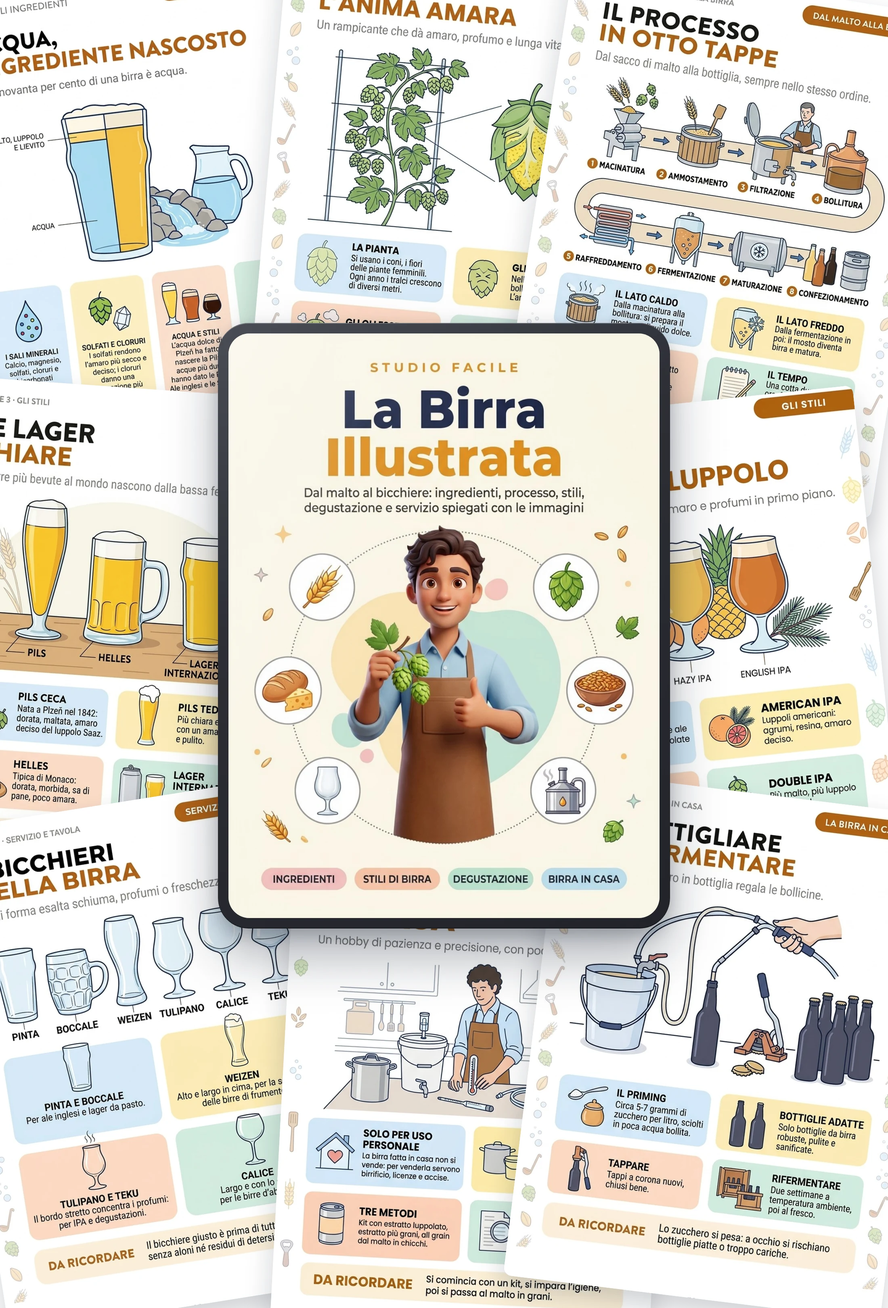
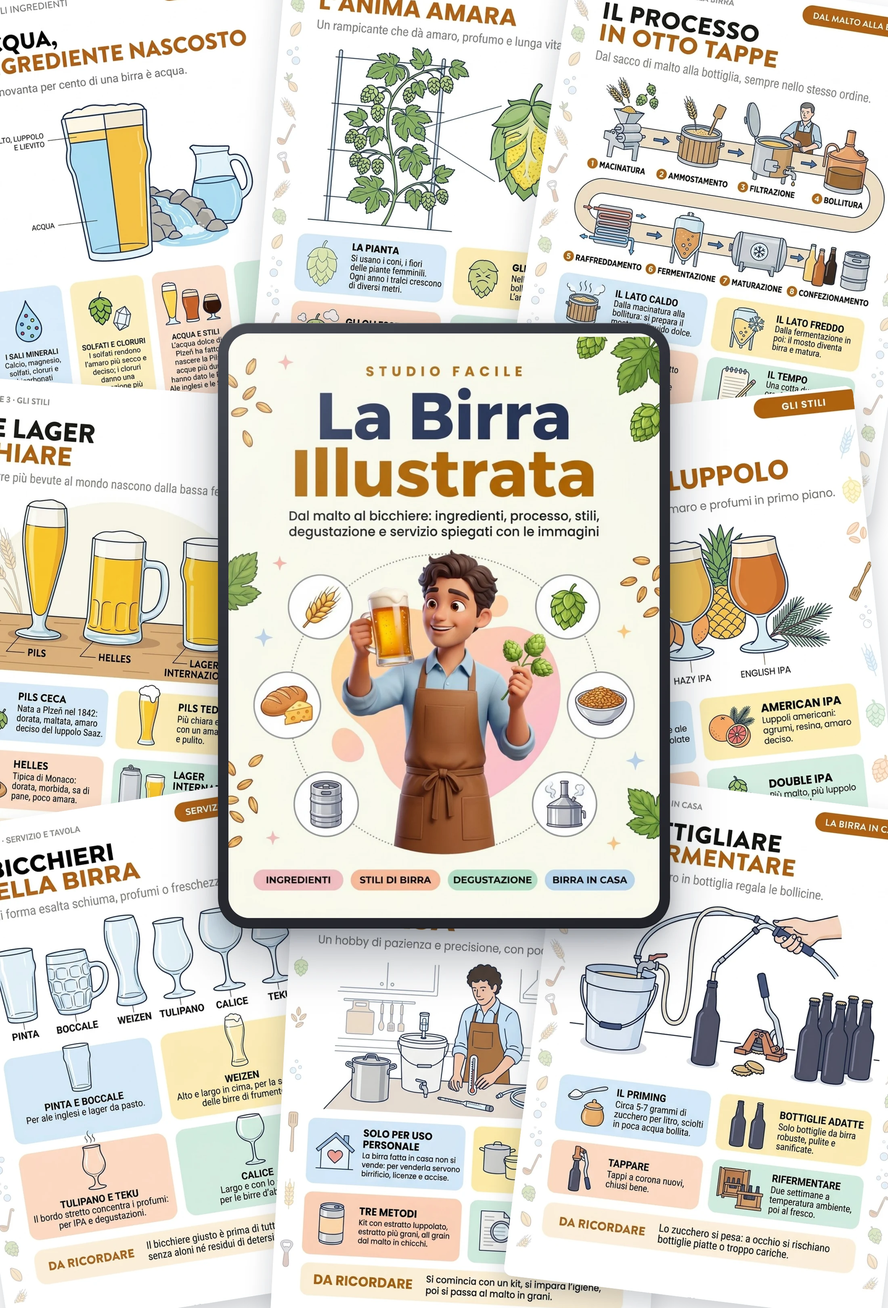
Landing birra IT: portada nueva (birra protagonista)

Changed region(s): [[0.2473, 0.2806, 0.7418, 0.6858], [0.6491, 0.2494, 0.7418, 0.3429], [0.2473, 0.2806, 0.3091, 0.3429]]

diff --git a/it/birra.html b/it/birra.html
@@ -2153,7 +2153,7 @@
   <section class="hero">
     <div class="hero-content">
       <div class="hero-mockup">
-        <img src="https://czocbnyoenjbpxmcqobn.supabase.co/storage/v1/object/public/algoritmia-img/studiofacile/mockups/birra-it/hero.webp?v=ef470cf0" alt="La Birra Illustrata, con Il Quaderno della Birra e Il Lessico della Birra in regalo"
+        <img src="https://czocbnyoenjbpxmcqobn.supabase.co/storage/v1/object/public/algoritmia-img/studiofacile/mockups/birra-it/hero.webp?v=7436ba78" alt="La Birra Illustrata, con Il Quaderno della Birra e Il Lessico della Birra in regalo"
              width="1200" height="886" loading="eager" fetchpriority="high" decoding="async">
       </div>
       <h1>Il Modo Più Facile per Capire la Birra <mark>Con Ogni Argomento Spiegato da un Disegno!</mark></h1>
@@ -2411,7 +2411,7 @@
     <div class="container">
       <h2 class="text-center">Ecco Cosa Riceverai Acquistando La Birra Illustrata:</h2>
       <div style="margin: 20px auto 28px;">
-        <img src="https://czocbnyoenjbpxmcqobn.supabase.co/storage/v1/object/public/algoritmia-img/studiofacile/mockups/birra-it/combo.webp?v=82d9414b" alt="La Birra Illustrata: mockup con pagine di esempio" width="1100" height="1620" loading="lazy" decoding="async" style="max-width: 480px; width: 100%; display: block; margin: 0 auto;">
+        <img src="https://czocbnyoenjbpxmcqobn.supabase.co/storage/v1/object/public/algoritmia-img/studiofacile/mockups/birra-it/combo.webp?v=7604ab06" alt="La Birra Illustrata: mockup con pagine di esempio" width="1100" height="1620" loading="lazy" decoding="async" style="max-width: 480px; width: 100%; display: block; margin: 0 auto;">
       </div>
       <div class="topics-grid">
         <div class="topic-item">
@@ -2513,7 +2513,7 @@
 
       <!-- DECISION BOX -->
       <div class="decision-box" id="offerta">
-        <img src="https://czocbnyoenjbpxmcqobn.supabase.co/storage/v1/object/public/algoritmia-img/studiofacile/mockups/birra-it/hero.webp?v=ef470cf0" alt="La Birra Illustrata con i due volumi in regalo" class="db-mockup" width="1200" height="886" loading="lazy" decoding="async">
+        <img src="https://czocbnyoenjbpxmcqobn.supabase.co/storage/v1/object/public/algoritmia-img/studiofacile/mockups/birra-it/hero.webp?v=7436ba78" alt="La Birra Illustrata con i due volumi in regalo" class="db-mockup" width="1200" height="886" loading="lazy" decoding="async">
         <h3 class="db-title">La Birra Illustrata + 2 Volumi in Regalo</h3>
         <ul class="db-checklist">
           <li><span class="db-check"><svg viewBox="0 0 24 24"><polyline points="20 6 9 17 4 12"/></svg></span>La Birra Illustrata: 57 pagine illustrate<span class="db-price-val">58,20€</span></li>
